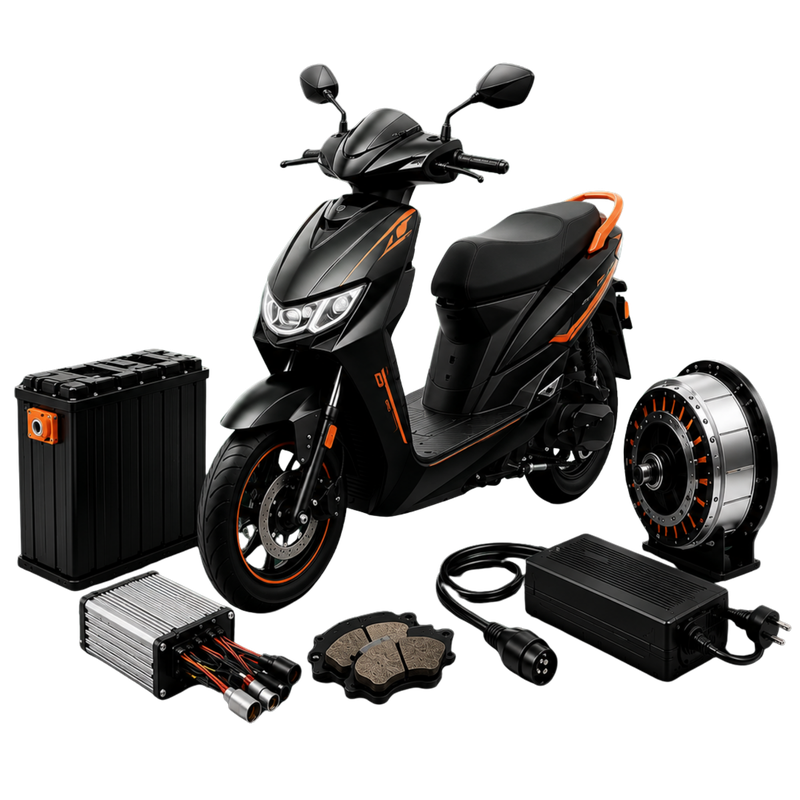
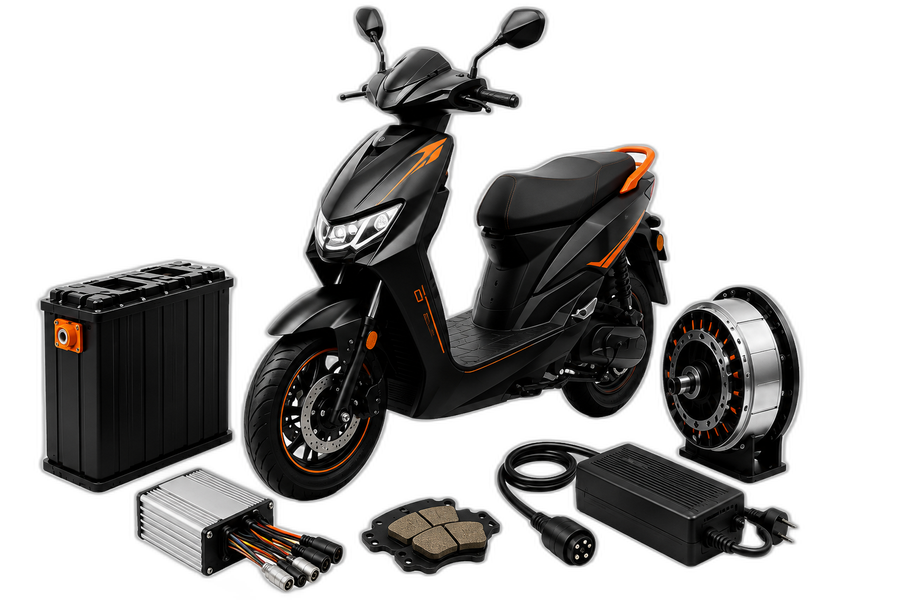
replace hero image with clean transparent version, improve layout balance and scaling

diff --git a/assets/css/home.css b/assets/css/home.css
@@ -25,9 +25,9 @@ img{max-width:100%;display:block;}
 .hero-premium{position:relative;width:100%;min-height:700px;background:linear-gradient(135deg,#0D1117 0%,#111827 100%);overflow:hidden;display:flex;align-items:center;}
 .hero-glow{position:absolute;top:-18%;right:-10%;width:760px;height:760px;background:radial-gradient(circle,rgba(34,197,94,0.22) 0%,rgba(34,197,94,0) 70%);pointer-events:none;}
 .hero-glow-2{position:absolute;bottom:-20%;left:-10%;width:640px;height:640px;background:radial-gradient(circle,rgba(249,115,22,0.10) 0%,rgba(249,115,22,0) 70%);pointer-events:none;}
-.hero-inner{position:relative;z-index:2;display:flex;align-items:center;gap:48px;width:100%;padding-top:48px;padding-bottom:48px;}
-.hero-left{flex:0 0 45%;max-width:45%;animation:heroFadeIn 0.45s ease-out both;}
-.hero-right{flex:0 0 55%;max-width:55%;position:relative;display:flex;align-items:center;justify-content:center;min-height:400px;animation:heroFadeIn 0.45s ease-out 0.1s both;}
+.hero-inner{position:relative;z-index:2;display:flex;align-items:center;gap:32px;width:100%;padding-top:48px;padding-bottom:48px;}
+.hero-left{flex:0 0 42%;max-width:42%;animation:heroFadeIn 0.45s ease-out both;}
+.hero-right{flex:0 0 58%;max-width:58%;position:relative;display:flex;align-items:center;justify-content:center;min-height:400px;animation:heroFadeIn 0.45s ease-out 0.1s both;}
 .hero-badge{display:inline-flex;align-items:center;gap:8px;background:rgba(249,115,22,0.15);border:1px solid rgba(249,115,22,0.35);color:var(--orange-light);font-size:12px;font-weight:600;padding:6px 14px;border-radius:20px;margin-bottom:26px;}
 .hero-badge-dot{width:6px;height:6px;border-radius:50%;background:var(--orange);animation:pulse 2s infinite;flex-shrink:0;}
 .hero-title{font-size:51px;font-weight:800;color:#fff;line-height:1.14;margin-bottom:24px;}
@@ -37,8 +37,8 @@ img{max-width:100%;display:block;}
 .hero-trust-row{display:flex;gap:26px;flex-wrap:wrap;}
 .hero-trust-item{display:flex;align-items:center;gap:7px;font-size:13px;color:rgba(255,255,255,0.6);font-weight:500;}
 .hero-trust-item i{color:var(--orange);font-size:17px;}
-.hero-scooter-img{max-width:82%;width:390px;filter:drop-shadow(0 24px 48px rgba(0,0,0,0.5));animation:floatY 4s ease-in-out infinite;}
-.hero-scooter-fallback{width:390px;max-width:82%;aspect-ratio:1;display:none;align-items:center;justify-content:center;background:rgba(255,255,255,0.04);border:1px solid rgba(255,255,255,0.1);border-radius:var(--radius-lg);animation:floatY 4s ease-in-out infinite;}
+.hero-scooter-img{width:84%;max-width:560px;height:auto;object-fit:contain;image-rendering:auto;filter:drop-shadow(0 24px 48px rgba(0,0,0,0.5));animation:floatY 4s ease-in-out infinite;}
+.hero-scooter-fallback{width:390px;max-width:82%;aspect-ratio:1.5;display:none;align-items:center;justify-content:center;background:rgba(255,255,255,0.04);border:1px solid rgba(255,255,255,0.1);border-radius:var(--radius-lg);animation:floatY 4s ease-in-out infinite;}
 .hero-scooter-fallback i{font-size:72px;color:var(--orange);}
 .hero-float-card{position:absolute;display:flex;align-items:center;gap:11px;background:rgba(255,255,255,0.09);backdrop-filter:blur(14px);-webkit-backdrop-filter:blur(14px);border:1px solid rgba(255,255,255,0.18);border-radius:var(--radius);padding:12px 16px;box-shadow:0 10px 30px rgba(0,0,0,0.4),0 0 0 1px rgba(255,255,255,0.03) inset;animation:floatY 3.5s ease-in-out infinite;transition:transform 0.2s ease,box-shadow 0.2s ease,background 0.2s ease;}
 .hero-float-card:hover{transform:translateY(-4px) scale(1.03);background:rgba(255,255,255,0.13);box-shadow:0 14px 36px rgba(0,0,0,0.45);}
@@ -282,7 +282,7 @@ img{max-width:100%;display:block;}
   .hero-trust-row{justify-content:center;}
   .hero-title{font-size:34px;}
   .hero-subtitle{margin-left:auto;margin-right:auto;}
-  .hero-scooter-img,.hero-scooter-fallback{width:220px;}
+  .hero-scooter-img,.hero-scooter-fallback{width:min(60vw,340px);}
   .hero-float-card{padding:8px 10px;}
   .hero-float-name{font-size:10px;}
   .hero-float-price{font-size:12px;}

diff --git a/index.html b/index.html
@@ -67,7 +67,7 @@
       </div>
     </div>
     <div class="hero-right">
-      <img src="assets/images/scooter/scooter.png" alt="EV Scooter with Spare Parts" class="hero-scooter-img" width="800" height="800" loading="eager" fetchpriority="high" decoding="sync" onerror="this.style.display='none';this.nextElementSibling.style.display='flex'"/>
+      <img src="assets/images/scooter/scooter.png" alt="EV Scooter with Spare Parts" class="hero-scooter-img" width="900" height="600" loading="eager" fetchpriority="high" decoding="sync" onerror="this.style.display='none';this.nextElementSibling.style.display='flex'"/>
       <div class="hero-scooter-fallback"><i class="ti ti-scooter-electric"></i></div>
       <div class="hero-float-grid">
         <a href="products.html" class="hero-float-card card-1"><span class="hero-float-icon">🔋</span><div><div class="hero-float-name">Battery</div><div class="hero-float-price">₹3,500</div></div></a>